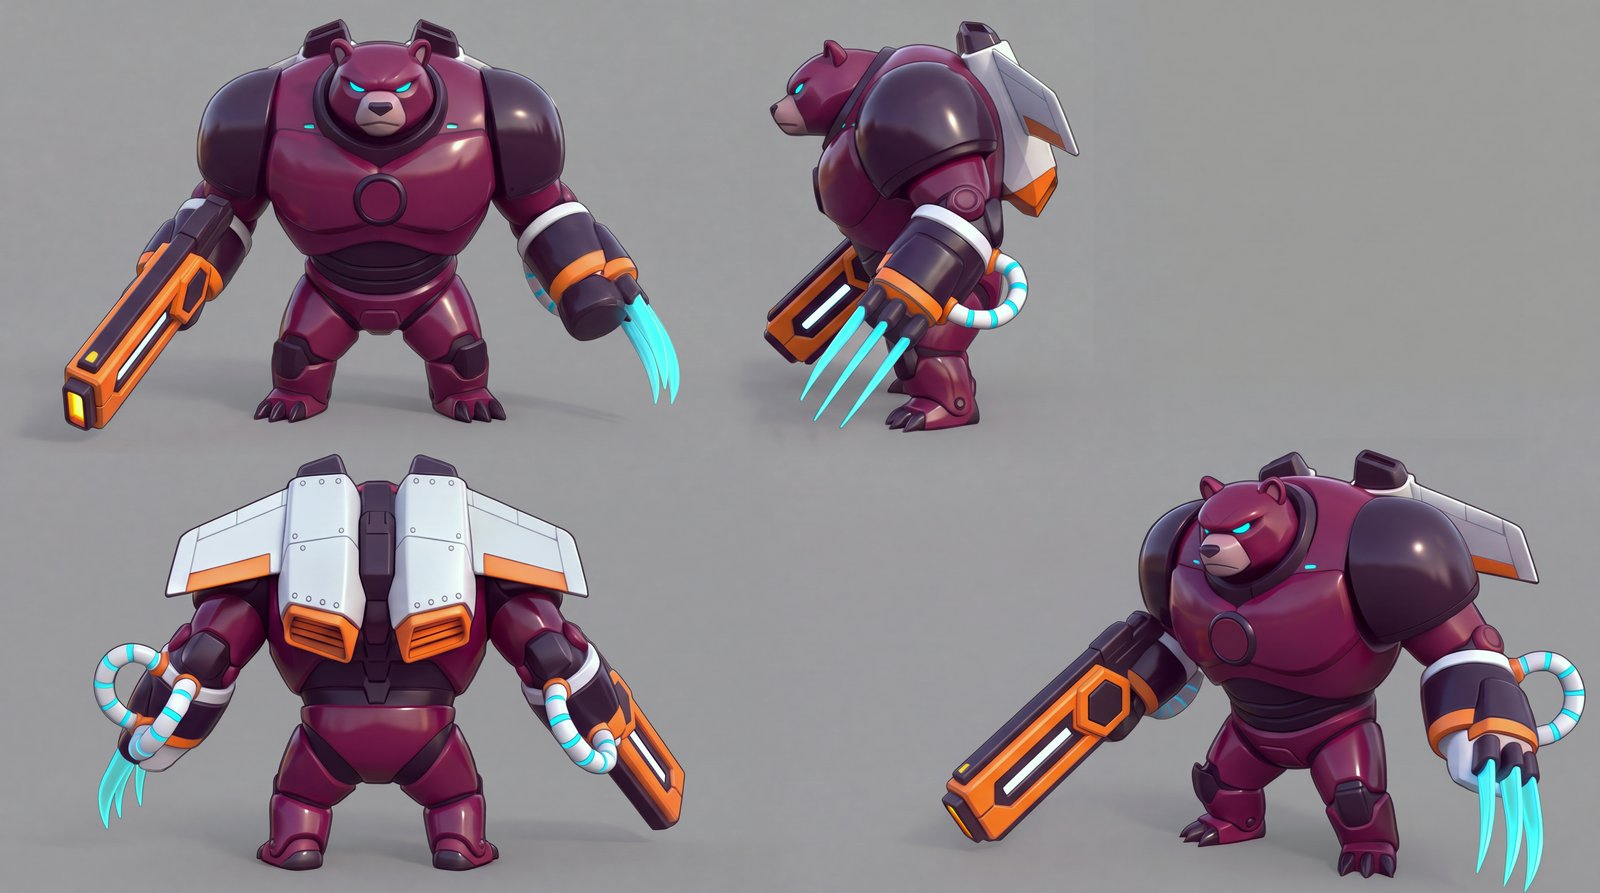
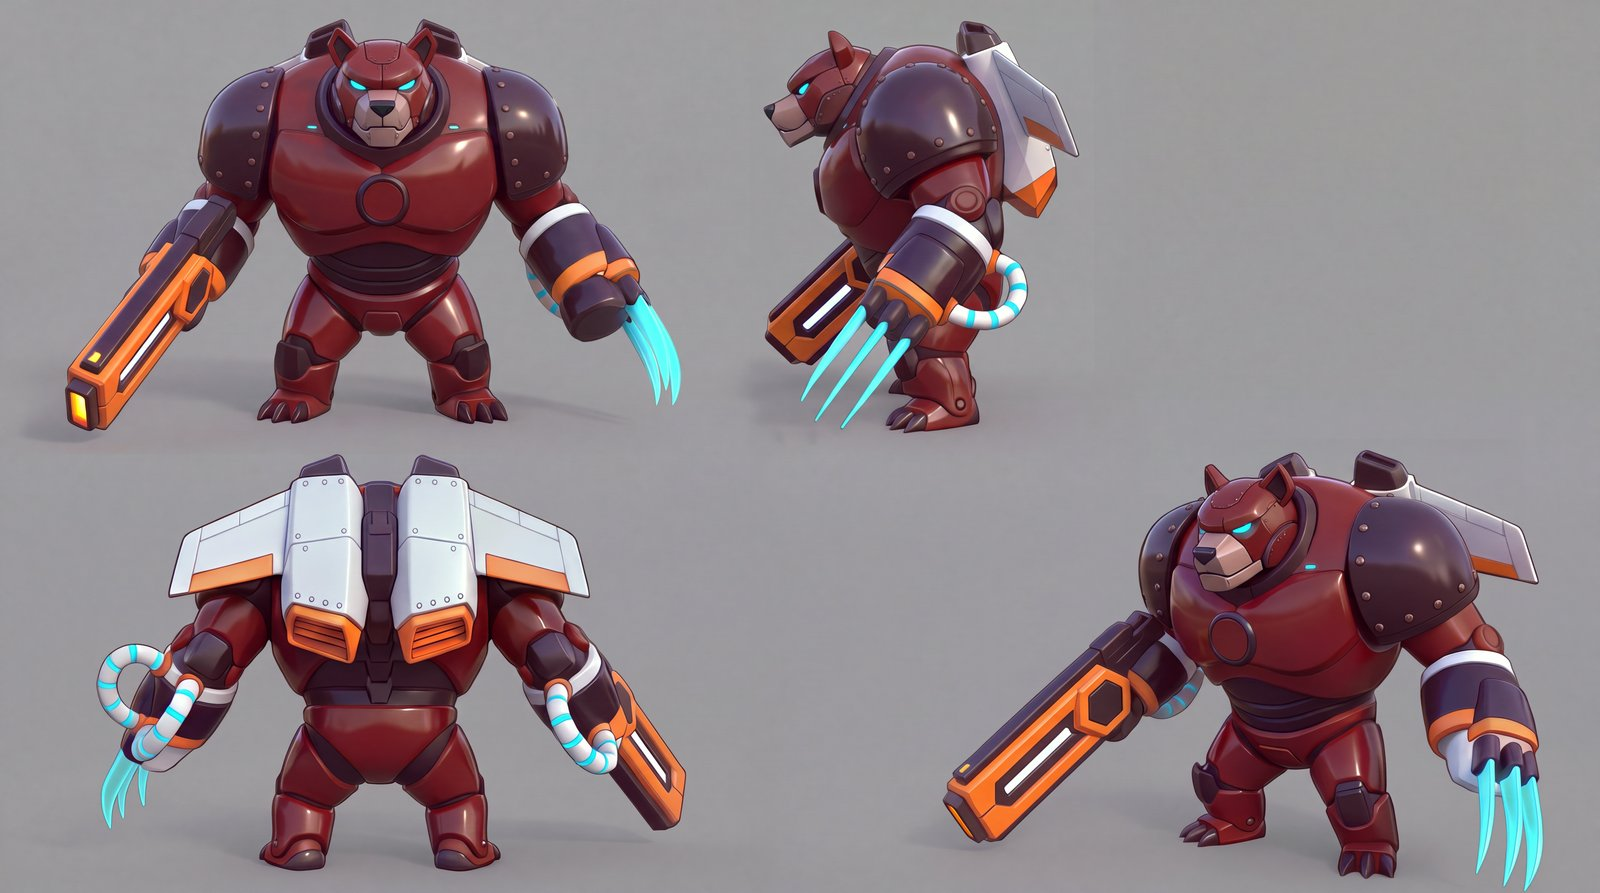
Create B-1000's Element from the fourth edit with a local maroon fix
The fourth edit gives B-1000 a plated head, pointed ears, a brow plate, a
jaw plate and riveted shoulders. The armour was rotated locally from
plum to the soul's maroon. His remaining minor misses are recorded and
accepted for the Oct 28 teaser.

Oliver's nose and plate shape are fixed, but the plate is still too big,
so a smaller-plate edit is queued and his Element waits for it.

Claude-Session: https://claude.ai/code/session_01P8G1q2LqE1hzznh79F6qfK

diff --git a/bbg-news-repo/characters/sheets/SHEETS.md b/bbg-news-repo/characters/sheets/SHEETS.md
@@ -16,14 +16,14 @@ These are the Element sheets: one 4K model sheet per character, in the feature-f
 
 | Character | Element | Job ID | Generated | QA |
 |---|---|---|---|---|
-| Oliver | `oliver-soldier` | 909ea0bd-843e-4324-ae88-193c2eeb84cb; mirrored upload a57f55c0-734f-4356-ada8-cc62f57c351c | 2026-10-20 | Fix (queued), mirrored |
+| Oliver | `oliver-soldier` | 992ff073-17f3-42d4-bf96-0d7cd3fbbcba (edit of the mirrored 909ea0bd) | 2026-10-23 | Fix (back plate size queued) |
 | Riggs | `riggs-heavy` | 769625a1-c662-4d45-9974-728a213bf4e6 | 2026-10-19 | Minor |
 | Tillman | `tillman-demolition` | 17b76e5f-993a-4ecd-913d-afe450592e59 (edit of 09ba5b80) | 2026-10-21 | Redo (queued) |
 | Huggable | `huggable-huggable` | b2a3f65d-8cfd-4e1b-a9f8-cf8cabc80828 (edit of 0680a612) | 2026-10-21 | Fix (queued) |
 | Astoria | `astoria-sniper` | 64d65c16-9fee-4a3d-a172-1069e1f65869; mirrored upload fcc7f1f4-8599-4812-b509-b0782b6f53a5 | 2026-10-20 | Fix (queued), mirrored |
 | Wil | `wil-chub-scout` | 5b633f8e-10ee-445f-ba46-ba62e1b26f90 (edit of 20f40c63); colour-corrected upload 3f87c967-2748-43d4-9c5b-dd11962459de | 2026-10-22 | Minor (fix queued) |
 | Graham | `graham-engineer` | 55c688d8-bcd6-4a48-9060-b21ef3051a2a (edit of a0a6b54f); mirrored upload d70599fa-9bd9-48b6-b88f-a4884ecce247 | 2026-10-21 | Minor, mirrored |
-| B-1000 | `b-1000-assault-signature` | 72dd6050-d1d8-4b2f-9912-1c6ceb7408ac (third edit, from 1f7259ce); colour-corrected upload e687ee95-e7e8-46b3-abd4-03a40d26e774 | 2026-10-22 | Fix (queued) |
+| B-1000 | `b-1000-assault-signature` | 14149d50-7199-4641-aa02-5fb50714630e (fourth edit, from 1f7259ce); maroon-corrected upload 28e42805-71d4-4158-950f-6ccd90bea381 | 2026-10-23 | Minor (Element created) |
 | Botch | `botch-assassin` | b6d6028f-8288-42ad-9277-ca9fdcebf9f8 | 2026-10-20 | Fix (queued) |
 | Saberi | `saberi-combat-tech` | 8635a36f-35b4-472e-8f8f-945eae9905e8; mirrored upload bf7b803c-eba5-4840-99a7-7c8d93b260fc | 2026-10-20 | Redo (queued), mirrored |
 | Sanchez | `sanchez-arbiter` | 859e4e24-d0f5-4e2b-b02a-352dd7df85b3 (edit of d3d31719); locally fixed upload c143c1df-b550-4082-8173-09e62cde047c | 2026-10-22 | Minor |
@@ -40,29 +40,22 @@ Created on 2026-10-22, after Bryce deleted the old Elements. To use one, put `<<
 | `astoria-sniper` | 548d3bfb-6334-41c7-b842-3d01ca3d3930 | mirrored upload fcc7f1f4 |
 | `saberi-combat-tech` | a0bb390a-5997-4e83-bf0b-1320e20d27b9 | mirrored upload bf7b803c |
 | `sanchez-arbiter` | e6122a2f-99de-423a-a310-733554bf48bb | locally fixed upload c143c1df |
+| `b-1000-assault-signature` | afb181b2-d8e7-47d3-8426-df01bf99e80c | maroon-corrected upload 28e42805 (created 2026-10-23) |
 
-**Deleted:** Bryce deleted the stale Oliver, Botch, Astoria and Saberi Elements, and a listing confirmed it on 2026-10-22. The second review panel had found real errors in those sheets. Their rows above are kept for history only. The current Elements are `sanchez-arbiter` and `riggs-heavy`.
+**Deleted:** Bryce deleted the stale Oliver, Botch, Astoria and Saberi Elements, and a listing confirmed it on 2026-10-22. The second review panel had found real errors in those sheets. Their rows above are kept for history only. The current Elements are `sanchez-arbiter`, `riggs-heavy` and `b-1000-assault-signature`.
 
-Not created yet, and waiting for their queued fixes: B-1000, Oliver, Botch, Astoria, Saberi, Wil, the Huggable (red and blue), Graham and Tillman. The checked prompts for the fresh Tillman and Saberi sheets and the Astoria edit are in the research scratchpad (`shorts/sheets_v2/redo_prompts.json`).
+Not created yet, and waiting for their queued fixes: Oliver, Botch, Astoria, Saberi, Wil, the Huggable (red and blue), Graham and Tillman. The checked prompts for the fresh Tillman and Saberi sheets and the Astoria edit are in the research scratchpad (`shorts/sheets_v2/redo_prompts.json`).
 
 ## QA notes
 
-- **Oliver: fix, mirrored** (second review panel, Oct 22).
-  - Right:
-    - chestnut plush and tan muzzle;
-    - a snug crimson headband with no tails;
-    - red wrist and knee bands with studs;
-    - the crossed brass bandolier;
-    - mitten paws and the compact build.
-  - Wrong, and fixed by mirroring: the smirk and the raised brow were on his left. The soul puts the smirk on his right. Nothing on the sheet depends on side, so the mirrored file is used.
-  - Wrong, and queued:
-    - the nose is brown, not black;
-    - the back plate is an eight-sided slab that fills his whole back; the soul says a flat hexagon about as wide as his shoulder blades.
-  - Minor:
-    - the headband and straps lean raspberry;
-    - the knee-stud rings are lilac rather than silver;
-    - the fur is a little more ginger than chestnut;
-    - he has a tan belly patch and a tail, which the soul doesn't mention.
+- **Oliver: fix** (Oct 23 edit of the mirrored sheet; review panel).
+  - Landed:
+    - a glossy black nose;
+    - a clean hexagonal back plate with red trim all round and no tab or clips, thin in the side view;
+    - the smirk and the raised brow on his own right.
+  - Still wrong: the plate is a little wider than before and ends only about 55 px above his tail. The soul wants it about shoulder-blade width and well above the tail.
+  - A smaller-plate edit is queued for Oct 24. His Element waits for it, because his first clip (C2) comes after the teaser.
+  - Minor: the headband and straps lean raspberry, the stud rings are lilac, the fur is a little ginger, and he has a belly patch and a tail that the soul doesn't mention.
 - **Riggs: minor** (second review panel). No fails. The small notes: a grey centre strip on the helmet and a tail, neither in the soul, and slight scale differences between the views.
 - **Tillman: redo** (second review panel). The Oct 21 edit fixed the eye rims and swapped the treads for wheels, but the panel found that the design misses the soul in many places:
   - the back bar is a small plain box, not a long striped bar across both shoulders;
@@ -109,21 +102,24 @@ Not created yet, and waiting for their queued fixes: B-1000, Oliver, Botch, Asto
     - the radio pack's top sits at shoulder height, not level with the hat brim;
     - after the mirror, the antenna rises from the pack's top right corner instead of its top left.
   - Usable.
-- **B-1000: fix** (after three edits, Oct 21-22, and the review panel).
+- **B-1000: minor, Element created** (fourth edit, Oct 23; review panel; local colour fix).
   - Landed:
-    - no hands in any view: the rail-gun is built onto his right forearm (the viewer's left in the front view), hanging muzzle-down;
-    - the rail-gun is an orange-and-black slab with an orange hexagonal plate, a white light bar and a glowing yellow-orange tip;
-    - the claws come out of a black end cap on the left forearm, with the looping white hose with cyan rings;
-    - the plain round chest disc, the winged white-and-orange jump-pack and the cyan eye-slits.
-  - Found by the panel. All were already in the first sheet, apart from the hose:
-    - the ears are rounded teddy ears; the soul has pointed ears plated in maroon and near-black;
-    - there is no hinged jaw plate, and the head reads as a smooth organic bear rather than glossy armour plates;
-    - the white hose also loops onto the rail-gun arm in the back view, with a faint trace in the three-quarter view;
-    - in the front view the claws leave beside the end cap and curl, instead of coming straight out of it;
-    - the shoulder armour has no rivets;
-    - the rail-gun has one light bar, not two, and no round side port.
-  - The colour cast was corrected locally.
-  - The head and hose edit is first in the next run, because Episode 1's cold open needs it. His Element waits for that result.
+    - a plated robot head with seams and rivets and no fur;
+    - pointed ears plated in maroon and near-black;
+    - a heavy brow plate over narrow cyan eye-slits;
+    - a black-tipped snout over a separate hinged jaw plate;
+    - riveted shoulder armour;
+    - no hands, with the orange-and-black rail-gun built onto his right forearm, the claws on his left and the jump-pack;
+    - the correct sides in every view.
+  - Fixed locally: the armour came out plum-magenta (hue about 325°). It was rotated to the soul's deep maroon (about 352°), and the background was neutralised.
+  - Still minor, and accepted for the Oct 28 teaser after four edits:
+    - the ear tips sit about a third of a head above the shoulder armour (BBG News's own spec says about level);
+    - in the front view the claws leave beside the end cap and curl;
+    - in the three-quarter view the white hose shows faintly on the gun arm and not on the claw arm, and in the back view it shows on both arms;
+    - the rail-gun has one light bar, not two, and no round side port;
+    - the jump-pack vents are louvres, not perforations;
+    - the muzzle plates are a pale mauve.
+  - A polish edit can follow after the teaser. Replacing the Element would need Bryce to delete the current one first.
 - **Botch: fix** (second review panel).
   - Right: plum-black plush, the big round head, grey muzzle, pupil-less glow, silver arm guards with red lights, and the float.
   - Wrong:
@@ -159,19 +155,19 @@ Not created yet, and waiting for their queued fixes: B-1000, Oliver, Botch, Asto
 
 ## Queued for the next daily reset
 
-The edit prompts are in the research scratchpad (`shorts/sheets_v2/fix_prompts_v4.json`). Episode 1's cast comes first:
+Episode 1 now shares the daily limit, so the plan for each reset is in the research scratchpad (`shorts/sheets_v2/run_oct24.json`). Oct 24 runs:
 
-1. B-1000:
-   - a plated robot head with pointed ears, a brow plate and a hinged jaw plate;
-   - no hose on the gun arm;
-   - claws straight out of the end cap.
-2. Oliver (mirrored sheet): a black nose and a flat hexagonal back plate.
-3. Huggable: the button eye moves under the bandage.
-4. Botch: huge calm glowing eyes, a tiny metal backpack and even light.
-5. A retry of B-1000 or Oliver if one fails; otherwise Wil's ABBi edit.
+1. C1 start still.
+2. C1 clip.
+3. Oliver's smaller back plate.
+4. The Huggable's button eye.
+5. Oliver's voice lines.
 
 Later:
-- fresh sheets for Tillman and Saberi from rewritten prompts;
-- Astoria's straps and head size;
+- Botch;
 - the blue Huggable;
-- Graham's minors.
+- Wil's ABBi;
+- fresh Tillman and Saberi sheets (`redo_prompts.json`);
+- Astoria;
+- Graham's minors;
+- a B-1000 polish.
